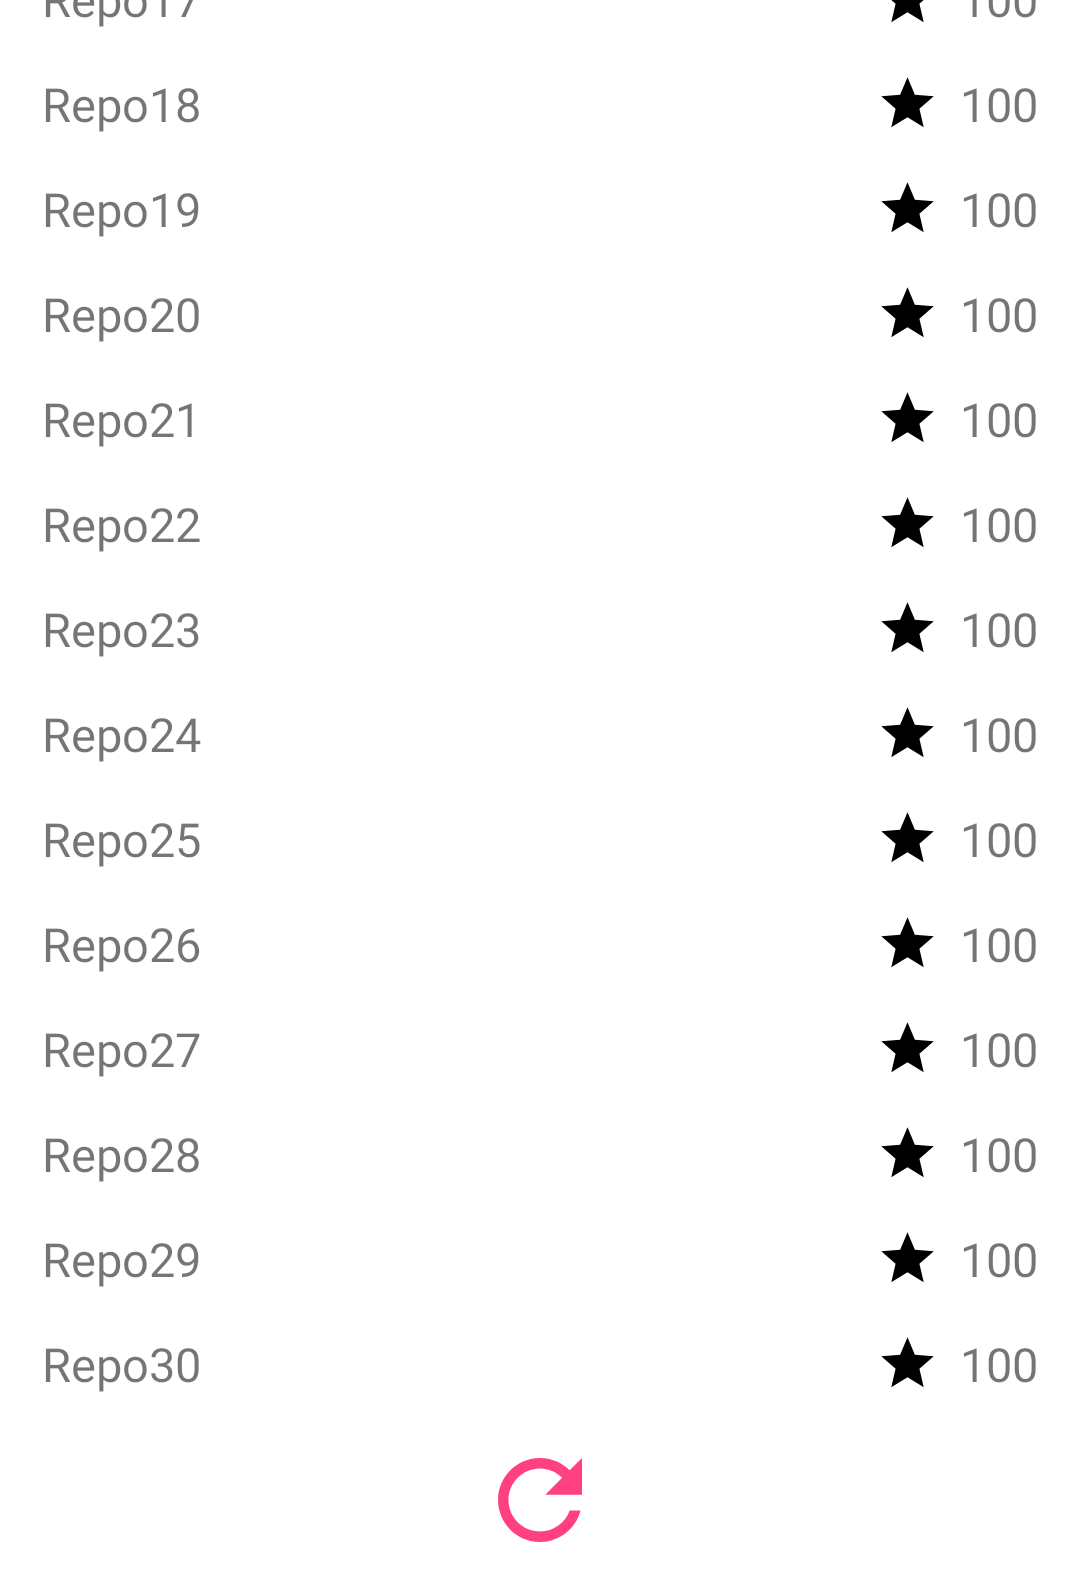
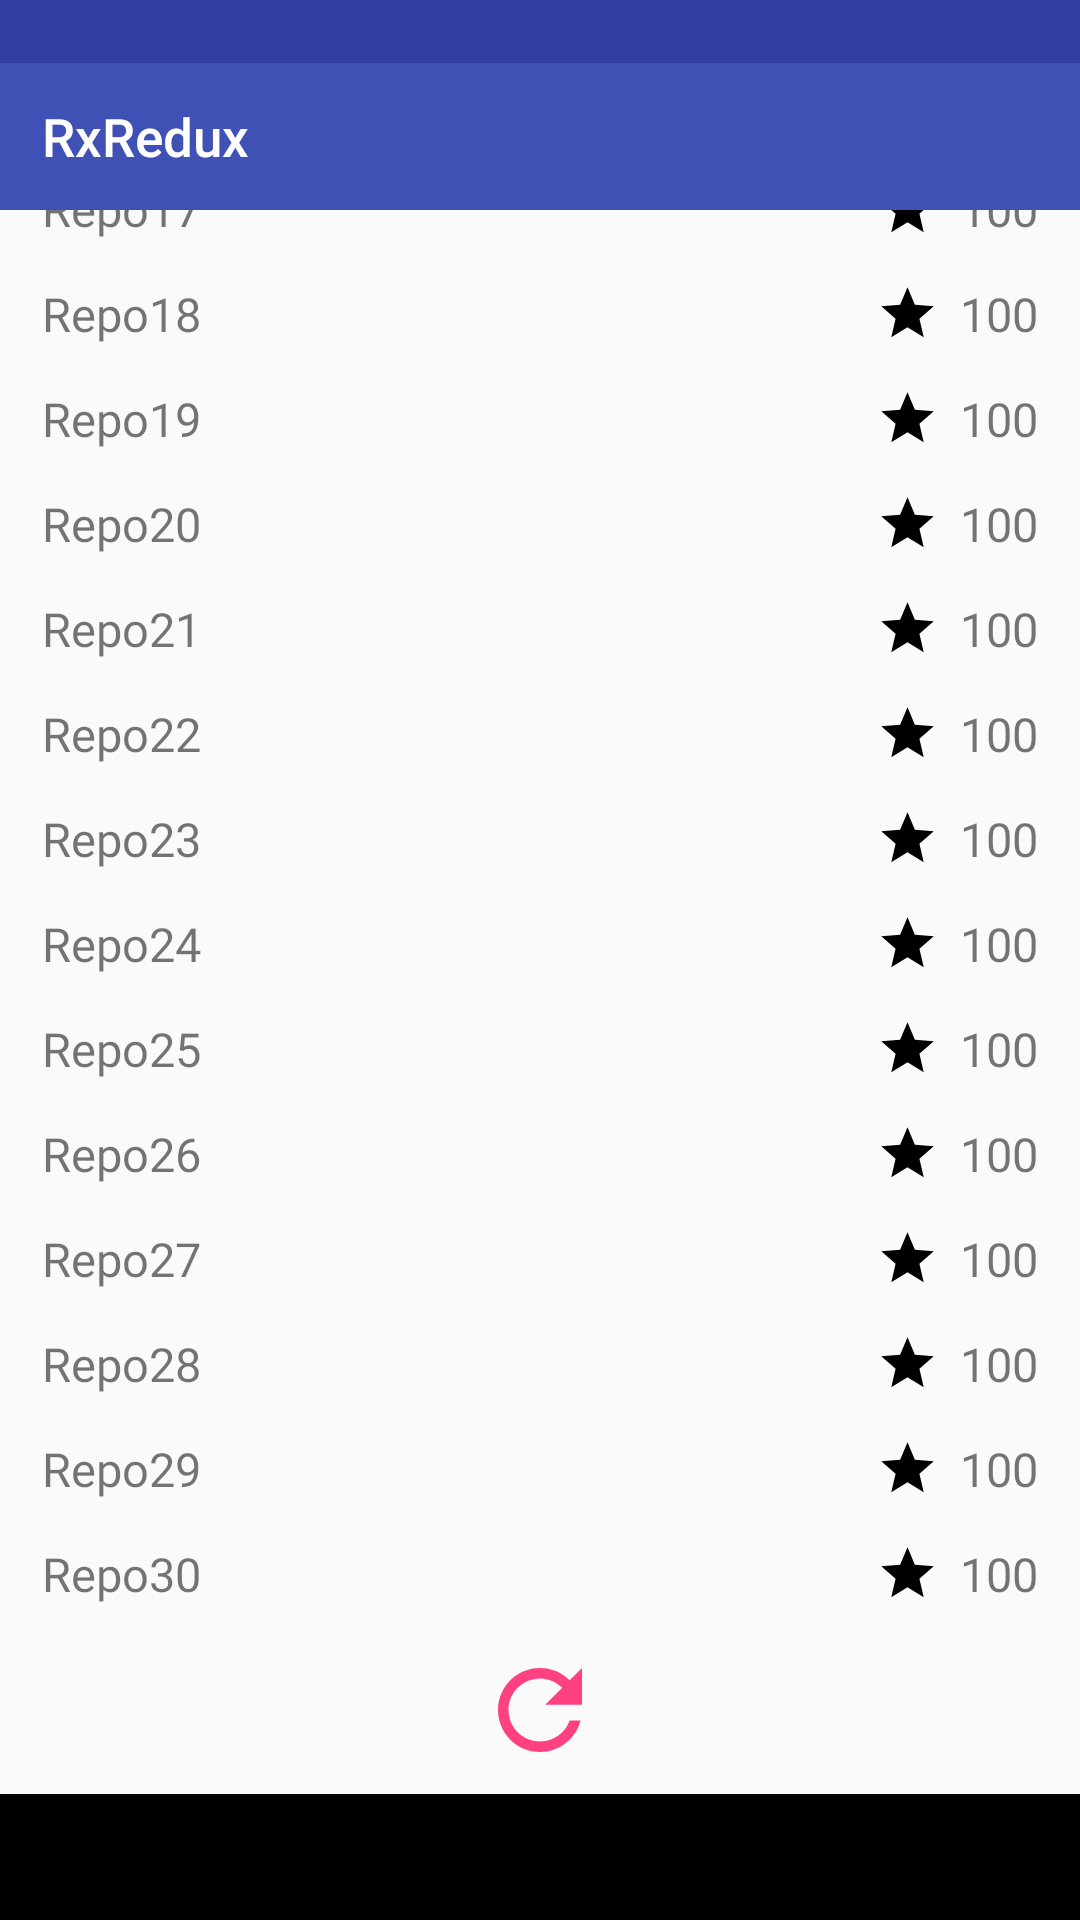
Taking screenshot of whole activity

diff --git a/sample/src/androidTest/java/com/freeletics/rxredux/QueueingScreenshotTaker.kt b/sample/src/androidTest/java/com/freeletics/rxredux/QueueingScreenshotTaker.kt
@@ -67,7 +67,7 @@ class QueueingScreenshotTaker(
                 topOfQueue.queuedState = QueuedState.WAITING_FOR_SCREENSHOT
                 handler.postDelayed({
                     val (state, _) = queue.poll()
-                    Screenshot.snap(rootView).setName("MainView State ${screenshotCounter++}")
+                    Screenshot.snapActivity(activity).setName("MainView State ${screenshotCounter++}")
                         .record()
                     Timber.d("Drawn $state. Screenshot taken. Queue $queue")
                     subject.onNext(state)
